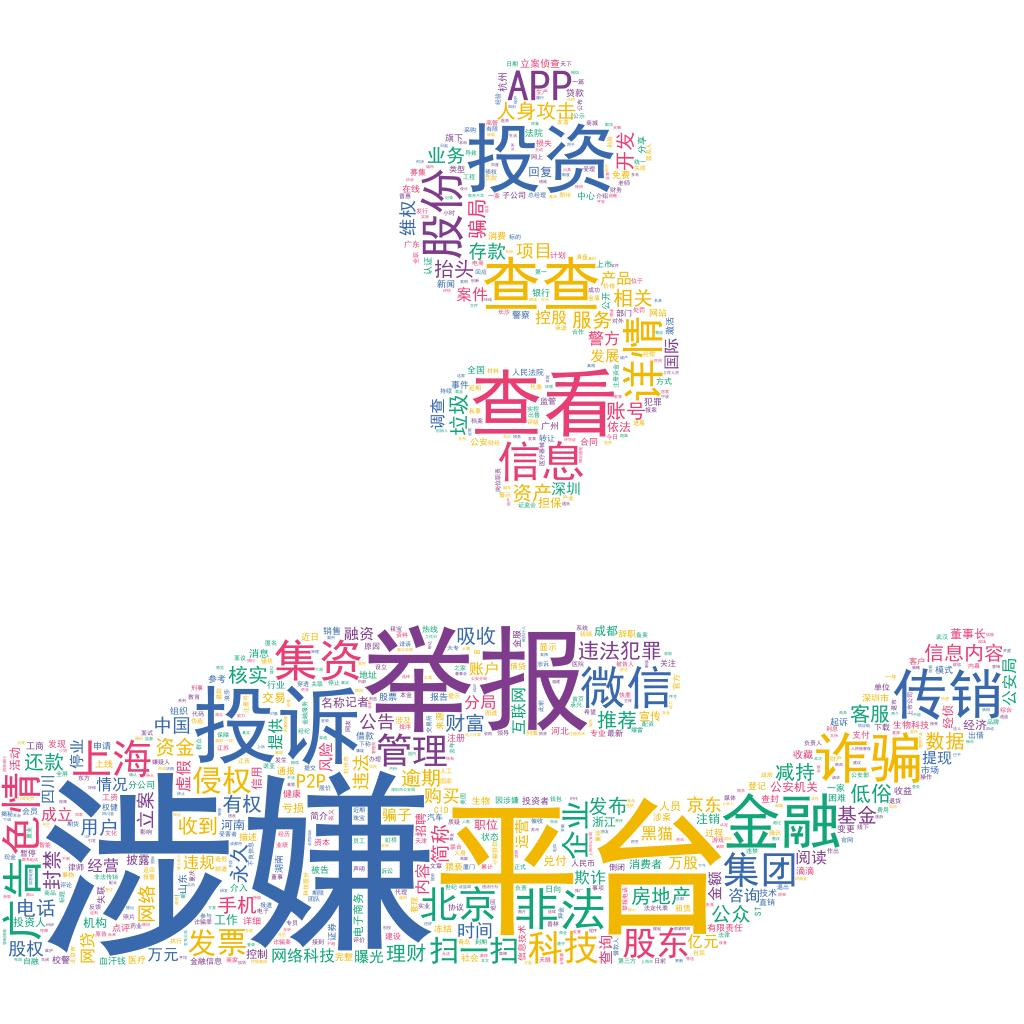
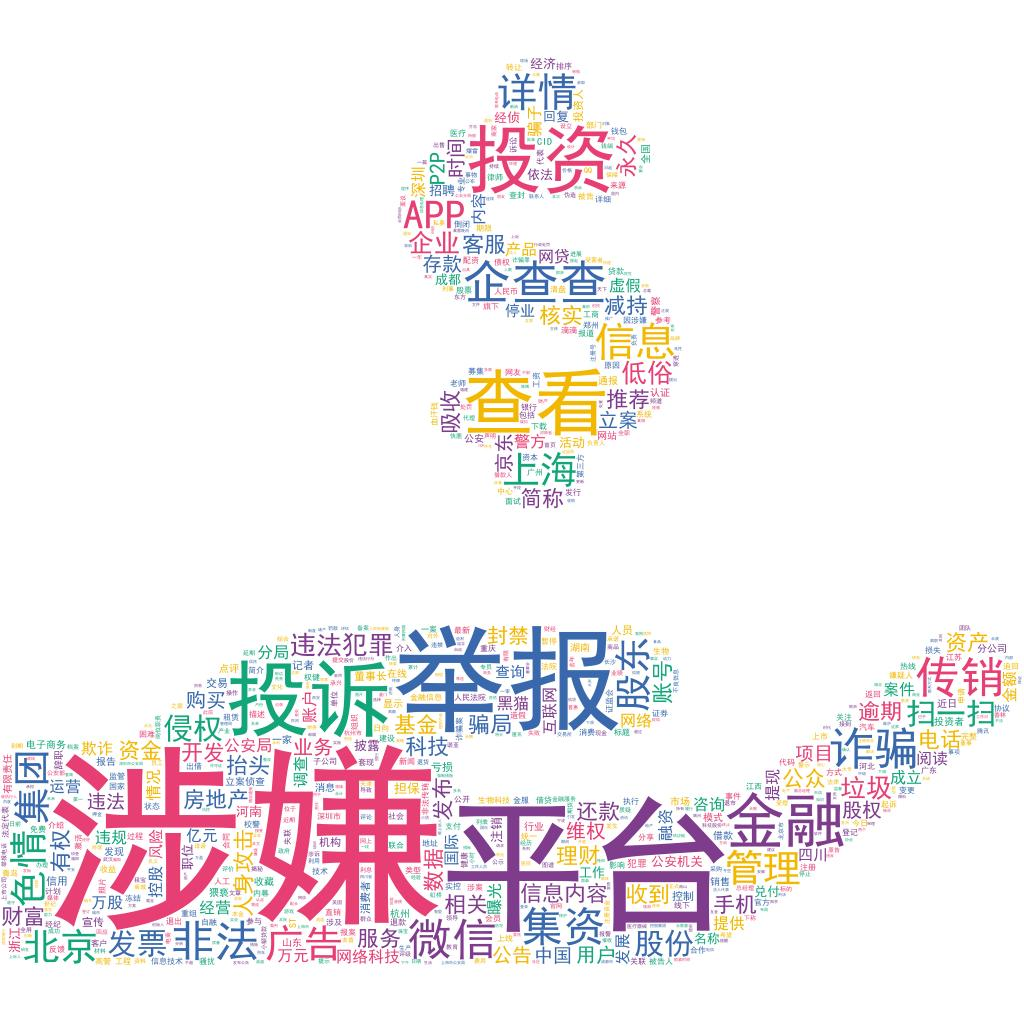
re-run baselines and BERT

Changed region(s): [[0.0, 0.5938, 1.0, 0.9688], [0.375, 0.0312, 0.6875, 0.5]]

diff --git a/utils/utils.py b/utils/utils.py
@@ -18,8 +18,6 @@ from stylecloud import gen_stylecloud
 from config import cfg
 
 
-
-
 def setup():
     plt.rcParams['font.sans-serif'] = ['SimHei']  # 步骤一（替换sans-serif字体）
     plt.rcParams['axes.unicode_minus'] = False  # 步骤二（解决坐标轴负数的负号显示问题）
@@ -79,6 +77,9 @@ def preprocess_raw_data(save_info=True):
         plt.close()
 
     # 带停用词的分词， 保存
+    jieba.load_userdict('data/companies.txt')  # 加载搜狗细胞词库转化而成的上市公司名称
+    jieba.add_word('企查查')  # '企查查'、'天眼查'这两个APP在金融文本中较为常见，且容易分错
+    jieba.add_word('天眼查')
     stopwords = [line.strip() for line in open('data/停用词.txt', encoding='gbk').readlines()]
     all_data['sep_content'] = all_data['content'].map(
         lambda x: ' '.join([wd for wd in jieba.cut(x) if len(wd) > 1 and wd not in stopwords])
@@ -89,7 +90,7 @@ def preprocess_raw_data(save_info=True):
 
 def plot_word_cloud():
     data = pd.read_csv("data/cleaned_data.csv", index_col=0)
-    all_content = ' '.join(data['content'].to_list())
+    all_content = ' '.join(data['sep_content'].to_list())
     gen_stylecloud(text=all_content,
                    font_path="C:/Windows/Fonts/simhei.ttf",
                    collocations=False,  # 避免关键词重复
@@ -188,8 +189,3 @@ class MyTokenizer(Tokenizer):
             else:
                 R.append('[UNK]')  # 剩余的字符是[UNK]
         return R
-
-
-
-
-

diff --git a/config.py b/config.py
@@ -12,7 +12,7 @@ class Config:
         self.lstm_epoch = 10
         self.lstm_batch_size = 128
         # BERT specific
-        self.bert_epoch = 3
+        self.bert_epoch = 2
         self.bert_lr = 2e-5
         self.bert_batch_size = 32
         self.bert_cfg_path = 'ckpt/bert_config_rbtl3.json'

diff --git a/main.py b/main.py
@@ -1,4 +1,5 @@
 import os
+
 os.environ['TF_CPP_MIN_LOG_LEVEL'] = '2'
 from utils.utils import preprocess_raw_data, plot_word_cloud, setup
 from models.baseline import run_baselines
